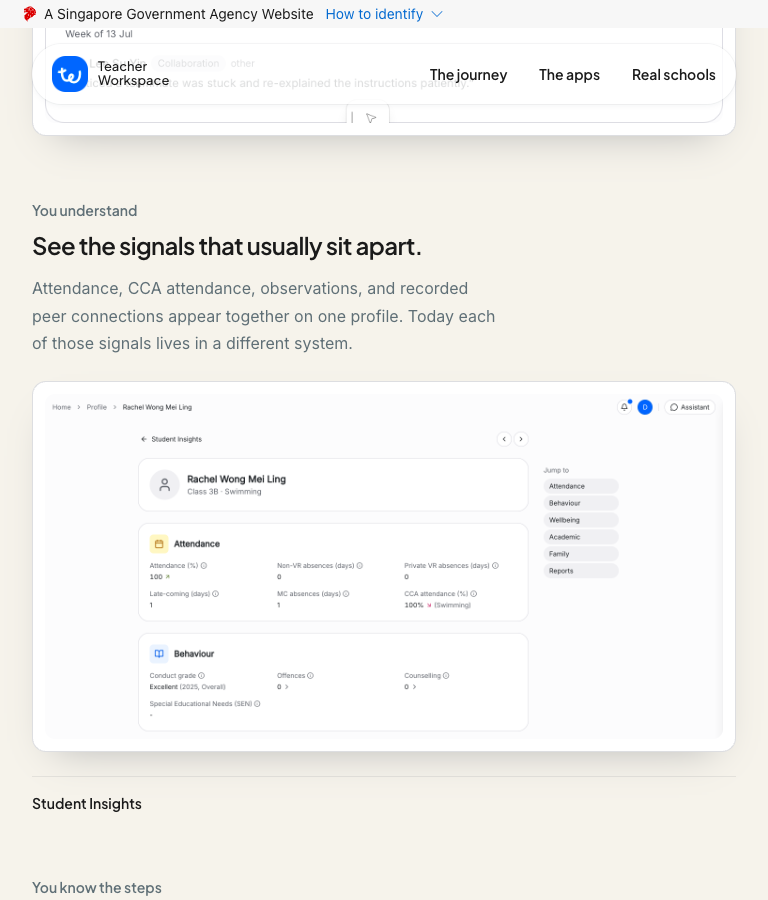
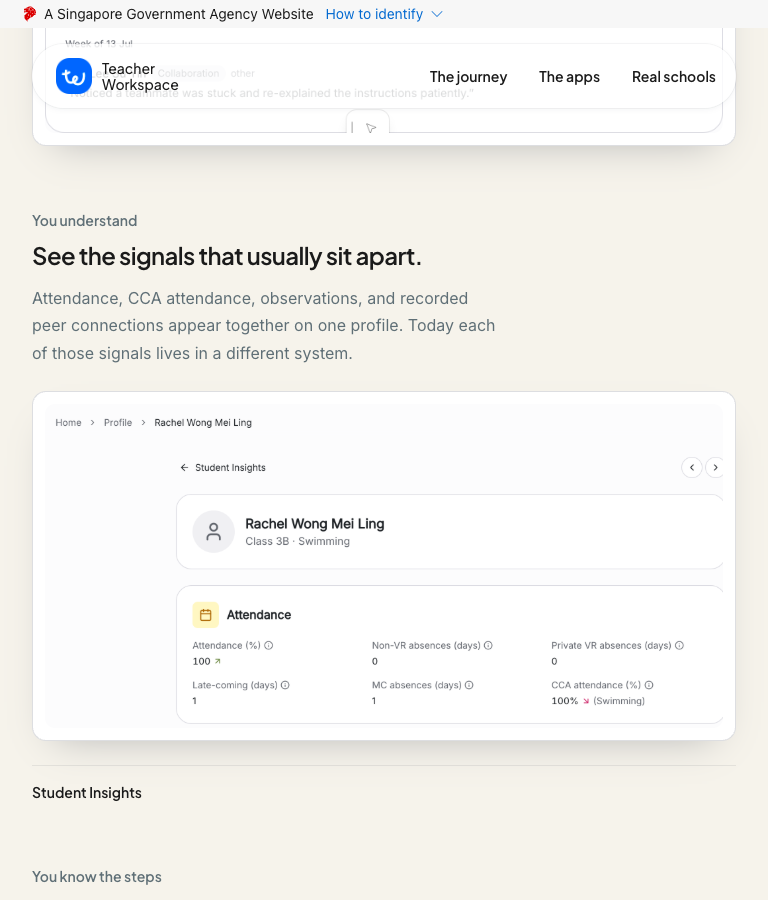
docs+fix(landing-ga): round-2 pass — record verdicts, close residual advisories
Round 2 verdict: pass (11/11 code findings resolved, finding 12 partial —
merge stays gated on #6/#10). Same-day touch-ups: proof lede no longer
implies approval, landing-map acceptance rows reconciled by amendment,
frame label ≤25 words, mobile pill fits content, evidence set refreshed.
Ratchet candidates recorded.

Claude-Session: https://claude.ai/code/session_017mDVPufAQKJDq1yhJn9Kge

diff --git a/src/components/landing-ga/ga-journey.tsx b/src/components/landing-ga/ga-journey.tsx
@@ -99,7 +99,7 @@ export function GaJourney() {
           <div className="hidden lg:block">
             <div className="sticky top-28">
               <figure
-                aria-label="One product surface stepping through the journey: a colleague's observation, the student profile, a suggested next step, a drafted term update, and the posted update read by two of three recipients."
+                aria-label="One product surface stepping through the journey, from the first recorded observation to the posted update families have read."
                 className="flex h-[min(560px,calc(100svh-13rem))] flex-col rounded-2xl border border-[color:var(--paper-rule-strong)] bg-[color:var(--paper-card)] p-5 shadow-[var(--paper-shadow-card)]"
                 role="img"
               >

diff --git a/src/components/landing-ga/ga-header.tsx b/src/components/landing-ga/ga-header.tsx
@@ -36,7 +36,7 @@ export function GaHeader() {
     <header className="pointer-events-none fixed inset-x-0 top-[var(--masthead-h,0px)] z-50 px-4 pt-4 transition-[top] duration-200 ease-out sm:px-8">
       <nav
         aria-label="Primary navigation"
-        className="nav-pill pointer-events-auto mx-auto flex w-full max-w-[940px] items-center justify-between gap-6 rounded-full py-2.5 pr-5 pl-5 shadow-[0_0_0_1px_rgb(15_23_42/0.04),0_2px_6px_-1px_rgb(15_23_42/0.06)] sm:gap-12"
+        className="nav-pill pointer-events-auto mx-auto flex w-fit max-w-[940px] items-center justify-between gap-6 rounded-full py-2.5 pr-5 pl-5 md:w-full shadow-[0_0_0_1px_rgb(15_23_42/0.04),0_2px_6px_-1px_rgb(15_23_42/0.06)] sm:gap-12"
       >
         <a
           aria-label="Teacher Workspace"

diff --git a/docs/decisions/ga-landing-page.md b/docs/decisions/ga-landing-page.md
@@ -119,7 +119,13 @@ No waivers were requested or granted this run.
 
 ## Ratchet
 
-_To be completed at Phase 6 after the review verdict and user acceptance._
+Candidates surfaced by this run's reviews, recorded for `rule-proposal.md` routing to the harness repo [proposed — pending design-lead approval]:
+
+1. **No-JS baseline control**: server-rendered output must not hide content behind an animation's initial state (statically detectable — scan SSR markup for `opacity:0` on content subtrees). This build shipped its primary action at `opacity:0` and passed every deterministic check.
+2. **Availability-claim control**: an availability or capability claim on a public surface traces to a capability owner's recorded confirmation (no existing control reaches "Now available…" beside a flag-gated capability).
+3. **Screenshot-disclosure control**: captures of product UI on public surfaces are reviewed for the data categories they display, not only their text alternative (a capture passed A11Y-6/CNT-4 while showing conduct/counselling/SEN fields).
+4. **Test-harness check**: a project's `matchMedia` stub must not blanket-match `prefers-reduced-motion` (this repo's stub keeps all 348 tests in the reduced-motion branch; `vitest.setup.ts` unchanged this run — flagged, not fixed).
+5. **Script gaps**: `checks/type-scan.py` does not implement TYP-1's dead-import clause; `checks/contrast.py` cannot resolve Tailwind `/opacity` modifiers — both let real failures pass a "clean" run.
 
 ## Design review — round 1 (2026-08-20, dx-design-review)
 
@@ -195,4 +201,28 @@ CMP-1: asserted, no manifest — manifest absent for tw
 
 ### Re-check status
 
-_Pending: same reviewer, new screenshots._
+Round 2 ran 2026-08-20 (fresh dx-design-review instance — the round-1 reviewer's context could not be resumed; the round-1 verdict and fix list were passed in full). Verdict below, verbatim.
+
+## Design review — round 2 (2026-08-20, dx-design-review re-check)
+
+### Verbatim verdict (summary table + closing; full text on ticket #14)
+
+All 11 code findings graded **resolved** against independently verified evidence (reviewer re-ran the harness checks, pixel-sampled the frames, and ran two independent SSR probes — zero `opacity:0`, focus ring measured 4.43:1 on the sky and 4.83:1 on its offset, audience labels 5.61–5.91:1, close CTA 5.32:1, cropped capture read directly and confirmed attendance-only, type-scan TYP-3 clean, stacked act gap ~84px). Finding 12 graded **partial**: the ADR-0003 addendum is a legitimate scoped resolution for a branch build, but the page said "Verified quotes", the landing-map acceptance rows were unreconciled, and act 3 still presents a Release-2 capability beside the GA line — merge gates #6/#10, not a re-review gate.
+
+New/residual advisories: near-empty fixed nav pill below 640px occluding content; 31-word frame aria-label (CNT-3); "Verified quotes" rendering as a first-class string; evidence hygiene (byte-identical hero/focus frames, stale 768 set, no post-fix memo capture); the vitest matchMedia stub still silences the enhanced rendering branch (advisory + ratchet); CNT-10 "Message drafting" vs "AI Draft" pass-with-caveat — needs a rename or a documented waiver before merge; CNT-12 mixed case on capability labels.
+
+Grades: design quality — acceptable · originality — strong · craft — acceptable, improved · functionality — acceptable, up from weak · dark mode — N/A.
+
+VERDICT: pass
+
+*(In the standard's three-value vocabulary this is `pass-with-findings` — the advisories are all L2 or record-level, and none is a blocking control failure.)*
+
+### Post-round-2 touch-ups (same day)
+
+- `08-proof.mdx` publicLede no longer says "Verified quotes" → "Quoted verbatim from staff interviews, with role and school level."
+- Landing-map acceptance rows reconciled via a dated amendment in `docs/decisions/2026-08-13-teacher-workspace-ga-landing-map.md`.
+- Frame aria-label shortened to 19 words.
+- The mobile nav pill fits its content (`w-fit md:w-full`) instead of spanning the width.
+- Evidence refreshed: resting 1280 hero, full 768 set, current memo-card frames at 1280/768/360.
+
+Open for the PM before merge (unchanged): per-quote publication approval (#10), claims register incl. act-3 availability posture (#6), CNT-10 naming call (Message drafting vs AI Draft), Facebook/Instagram verbatim publication call.

diff --git a/docs/decisions/2026-08-13-teacher-workspace-ga-landing-map.md b/docs/decisions/2026-08-13-teacher-workspace-ga-landing-map.md
@@ -102,3 +102,18 @@ interaction quality.
 | CMS | One append-only draft save after gates clear |
 | Preserved | Stable targets, all comment states, `/`, production aliases |
 | Deferred | Visual branding, imagery, motion, interactions, launch publication |
+
+## Amendment — 2026-08-20 (GA landing build, design review round 2)
+
+Two acceptance rows are reconciled against the build on `ga-landing-design`:
+
+- **Proof** ("One publicly approved Posts testimonial"): superseded in count by
+  the builder's 2026-08-20 direction (three curated verbatims, issue #3's
+  "kept brief" format) and in approval state by the ADR-0003 addendum — the
+  quotes render as proposed on unmerged review builds only; per-quote
+  `publicationApproved` (ticket #10) remains the publication gate.
+- **Product truth** ("Capability-owner-confirmed GA claims only"): unchanged
+  as the publication bar. The branch build presents AI next-step guidance
+  (a Release-2 flag-gated state, recorded in `content/screens.mdx` and
+  `docs/decisions/ga-landing-page.md`) as proposed content; ticket #6's
+  claims register must clear before merge.
